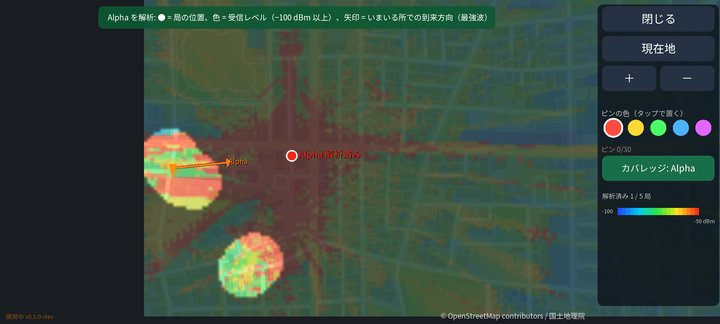
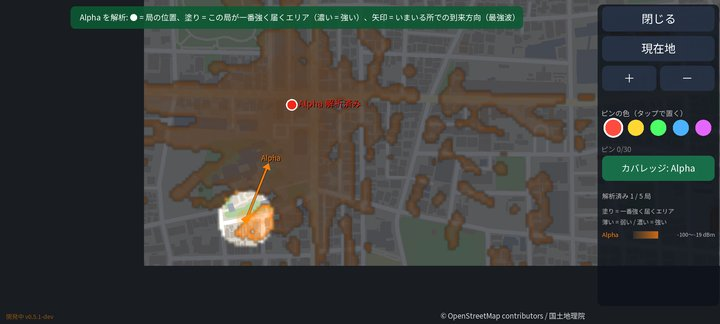
Phonetic Hound 0.5.1-dev (in development)

diff --git a/phonetic_hound/README.md b/phonetic_hound/README.md
@@ -10,13 +10,13 @@
 
 ## ダウンロード
 
-### [APK をダウンロード（v0.5.0-dev・10.2 MB）](https://github.com/kijitora-no-hito/android-apps/releases/download/phonetichound-v0.5.0-dev/phonetichound-0.5.0-dev-release.apk)
+### [APK をダウンロード（v0.5.1-dev・10.2 MB）](https://github.com/kijitora-no-hito/android-apps/releases/download/phonetichound-v0.5.1-dev/phonetichound-0.5.1-dev-release.apk)
 
 | 項目 | 内容 |
 | --- | --- |
-| バージョン | 0.5.0-dev（2026-09-26・開発中） |
-| ファイル | `phonetichound-0.5.0-dev-release.apk`（10,649,496 バイト） |
[1 lines of base64/hex data omitted]
+| バージョン | 0.5.1-dev（2026-09-26・開発中） |
+| ファイル | `phonetichound-0.5.1-dev-release.apk`（10,649,496 バイト） |
[1 lines of base64/hex data omitted]
 | 対応 Android | 7.0 以上（横画面） |
 | 価格 | 無料・広告なし・アプリ内課金なし・アカウント登録なし |
 
@@ -40,7 +40,7 @@
 - マップは歩いた場所だけが見えます。ピンも置けます。
 - 街並みは実在の地形と建物のデータから作っています。電波は建物での反射・回折まで計算しています。
 
-## この版でできること（0.5.0-dev）
+## この版でできること（0.5.1-dev）
 
 - **全 6 ステージ**を、最初から巨大基地局の停波まで遊べます。開発中の版では、どのステージも最初から選べます。
 
@@ -61,6 +61,10 @@
   （全アンテナ所持。ゲーム中の DEBUG ボタンで無敵・敵なし・野良ゾンビの量・局へワープ・即時制圧など）。
 
 これから: 難易度・バランスの調整、見た目の改善。
+
+### 0.5.0-dev からの変更
+
+- カバレッジマップを見やすく: その局が一番強く届くエリアだけを局の色で塗り、強さを色の濃淡で表すようにしました（解析済みを全部表示すると、局ごとのエリアの境目が分かります）。
 
 ### 0.4.0-dev からの変更
 
@@ -101,7 +105,7 @@
 </tr>
 <tr>
 <td align="center"><img src="images/21.jpg" width="340" alt="溜め"><br>アンテナを溜めて振る</td>
-<td align="center"><img src="images/07.jpg" width="340" alt="カバレッジ"><br>カバレッジマップ</td>
+<td align="center"><img src="images/23.jpg" width="340" alt="カバレッジ"><br>カバレッジマップ（局ごとのエリアを濃淡で表示）</td>
 </tr>
 <tr>
 <td align="center"><img src="images/16.jpg" width="340" alt="野良ゾンビ"><br>野良ゾンビが街中から寄ってくる</td>
